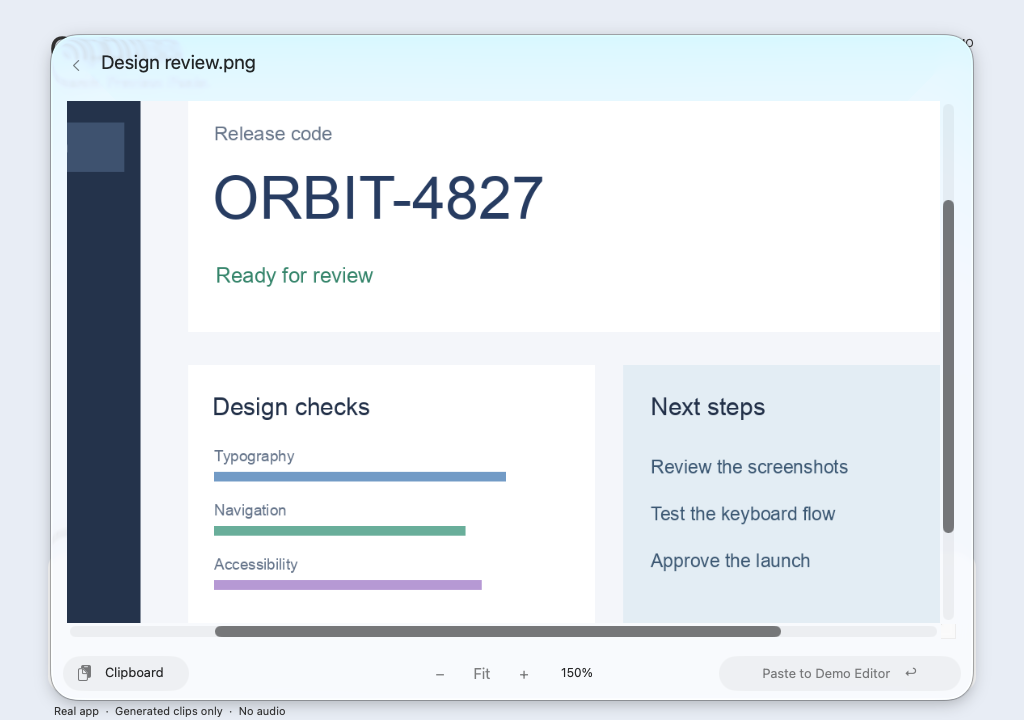
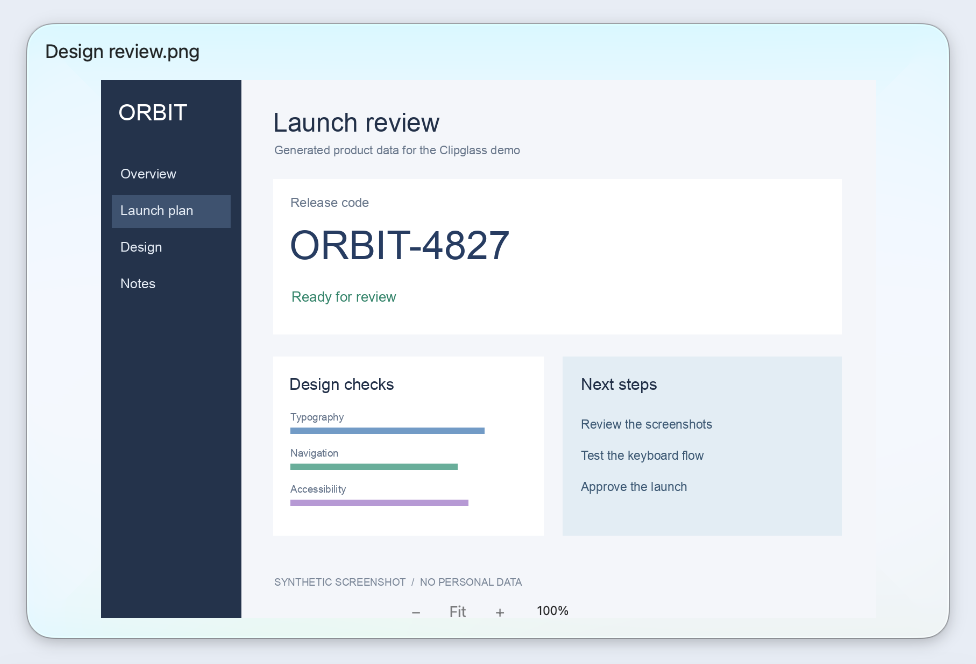
Refresh README screenshots with the polished native interface

diff --git a/scripts/prepare-demo-media.py b/scripts/prepare-demo-media.py
@@ -1,5 +1,9 @@
 #!/usr/bin/env python3
-"""Crop reviewed VM captures, stripping the VM menu bar. Requires Pillow."""
+"""Crop reviewed desktop captures of the current native UI. Requires Pillow.
+
+The VM display is 1024x768. Crops retain the app's native glass and shadow,
+while excluding the VM menu bar, Dock and notifications. No UI is composited.
+"""
 import pathlib
 from PIL import Image
 
@@ -7,15 +11,14 @@ root = pathlib.Path(__file__).resolve().parent.parent
 output = root / "docs/media"
 output.mkdir(parents=True, exist_ok=True)
 captures = {
-    "history-clean.png": "clipglass-history.png",
-    "ocr-search.png": "clipglass-ocr-search.png",
-    "zoom-final.png": "clipglass-image-zoom.png",
-    "code.png": "clipglass-code.png",
-    "batch-final.png": "clipglass-batch.png",
-    "pasted-final.png": "clipglass-pasted.png",
+    "polished-history.png": ("clipglass-history.png", (104, 110, 920, 637)),
+    "polished-ocr.png": ("clipglass-ocr-search.png", (104, 110, 920, 637)),
+    "polished-zoom.png": ("clipglass-image-zoom.png", (24, 40, 1000, 704)),
+    "polished-code.png": ("clipglass-code.png", (104, 110, 920, 637)),
+    "polished-batch.png": ("clipglass-batch.png", (104, 110, 920, 637)),
 }
-for source, name in captures.items():
+for source, (name, bounds) in captures.items():
     with Image.open(root / "target-vm" / source) as image:
         assert image.size == (1024, 768), image.size
-        image.crop((0, 32, 1024, 752)).save(output / name)
+        image.crop(bounds).save(output / name)
 print(f"Prepared {len(captures)} synthetic VM screenshots in {output}")

diff --git a/examples/launch-demo-stage.rs b/examples/launch-demo-stage.rs
@@ -101,6 +101,15 @@ fn main() {
     };
     let w = screen.size.width;
     let h = screen.size.height;
+    // Clean, opaque backdrop for stills of the real app. Do not composite the
+    // app UI: capture the resulting desktop pixels so native glass stays intact.
+    if std::env::var_os("CLIP_DEMO_BACKDROP_ONLY").is_some() {
+        window.setContentView(Some(&stage));
+        window.makeKeyAndOrderFront(None);
+        app.activateIgnoringOtherApps(true);
+        app.run();
+        return;
+    }
     let title = label("Clipglass", 34.0, rect(48.0, h - 72.0, w - 96.0, 42.0), mtm);
     stage.addSubview(&title);
     let subtitle = label(

diff --git a/README.md b/README.md
@@ -6,7 +6,8 @@ A keyboard-first clipboard history for macOS, built in Rust with native AppKit v
 
 ![Clipglass clipboard history with screenshot thumbnails](docs/media/clipglass-history.png)
 
-[Watch the short demo](docs/media/clipglass-demo.mp4). Every clip in the demo is synthetic.
+[Watch the earlier short demo](docs/media/clipglass-demo.mp4). The screenshots show
+the current interface; the video shows an earlier build. All content is synthetic.
 
 ## What it does
 
@@ -16,6 +17,16 @@ A keyboard-first clipboard history for macOS, built in Rust with native AppKit v
 - Opens larger previews with Right Arrow. Pinch to zoom, scroll to pan, or use the Fit and zoom buttons.
 - Marks clips with X and pastes them in copy order, oldest first.
 - Keeps indentation and blank lines when pasting. Only list titles drop leading whitespace.
+
+## Screenshots
+
+| Search text inside screenshots | Preview code without losing indentation |
+| --- | --- |
+| ![OCR search finds a release code inside a screenshot](docs/media/clipglass-ocr-search.png) | ![Code preview with its original indentation](docs/media/clipglass-code.png) |
+
+| Mark several clips for batch paste | Open a larger image preview |
+| --- | --- |
+| ![Three selected clips with unobstructed checkmarks](docs/media/clipglass-batch.png) | ![Expanded image preview with zoom controls](docs/media/clipglass-image-zoom.png) |
 
 ## Install from source
 

diff --git a/docs/launch/DEMO.md b/docs/launch/DEMO.md
@@ -1,5 +1,19 @@
 # Synthetic demo
 
+## Current screenshots
+
+The history, OCR-search, code, batch-selection and image-preview stills were
+recaptured on 2026-11-24 from the current native app in an isolated macOS 26 VM.
+They show the compact rows, centered divider, tighter header and list-edge fades.
+All 16 history entries and the screenshot fixture were generated for capture.
+No personal history, documents or URLs were imported.
+
+`CLIP_DEMO_BACKDROP_ONLY=1` starts `launch-demo-stage` with only its opaque
+backdrop. The stills are crops of desktop pixels, preserving native glass and
+shadows. `scripts/prepare-demo-media.py` applies the reviewed crop bounds.
+
+## Earlier video
+
 The [36-second video](../media/clipglass-demo.mp4) records the real native app
 inside a disposable macOS VM. It has no audio track. It shows:
 
